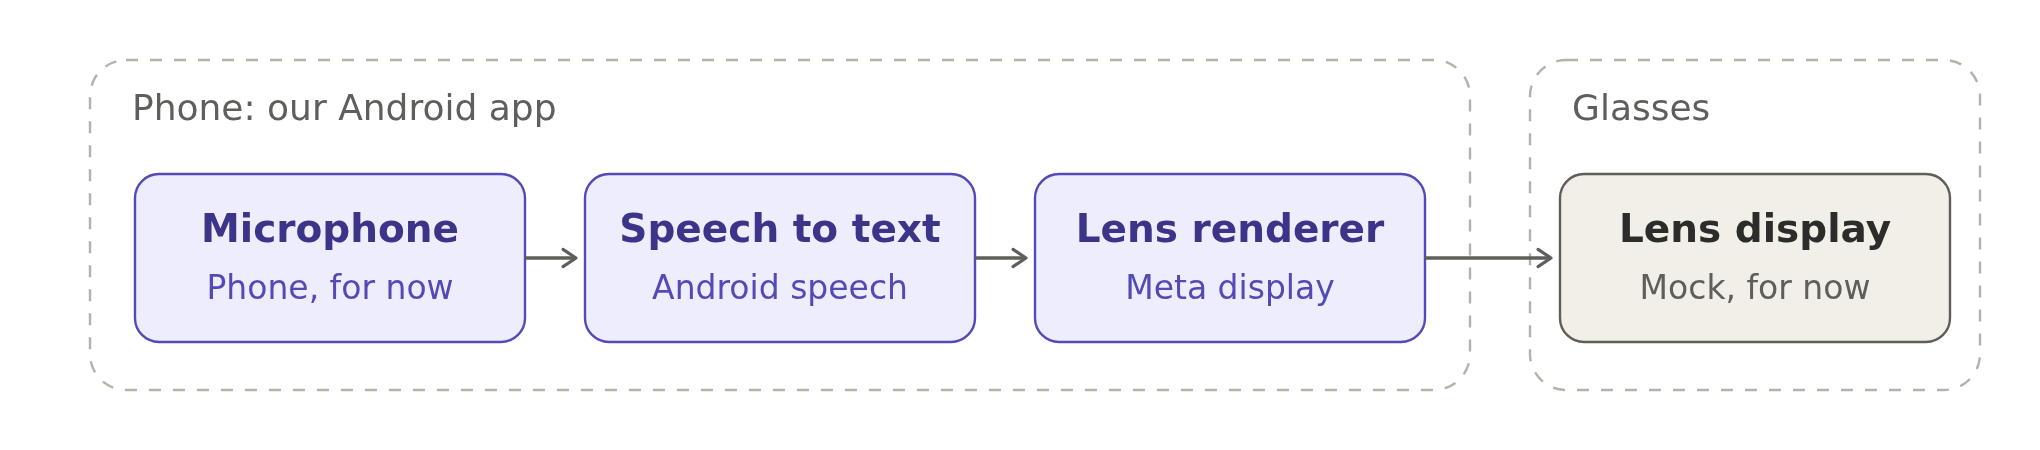
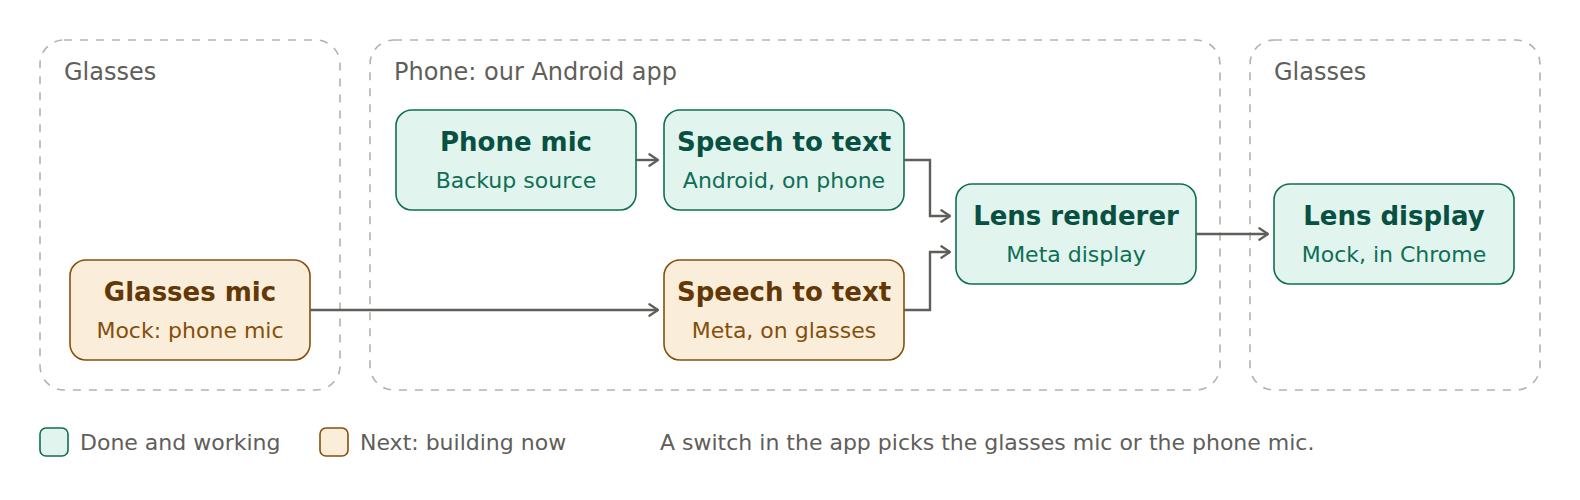
Update architecture docs: version 1 progress and version 2 sign clips
- Version 1 diagram now shows what is done (phone mic, Android speech
  to text, lens renderer, mock lens in Chrome) and what is next (glasses
  mic and Meta speech to text, with the phone mic kept as a backup)
- Add version 2 diagram: a clip matcher picks one of 5-10 pre-recorded
  Finnish Sign Language clips by trigger phrase and the lens plays it;
  with no match the lens shows the caption text
- Note Meta's video limits (MP4, max 400 px per side and 70,000 px,
  https only, one video at a time)
- Rewrite "Out of scope": live speech-to-sign translation stays out;
  signing to voice (gloves) is a separate plan

diff --git a/docs/architecture.md b/docs/architecture.md
@@ -8,36 +8,91 @@ Smart glasses for deaf and hard-of-hearing people. The wearer keeps looking at t
 
 Each diagram is shown as an image (works in Android Studio and on GitHub). The editable source is in `docs/images/*.svg`; a Mermaid version follows each image for GitHub.
 
-## Version 1: listen and show
+## Version 1: listen and show (now and next)
 
-The first version does one thing: someone speaks near the phone and the words appear in the glasses lens. Everything runs inside the Android app.
+Someone speaks and the words appear in the glasses lens. Everything runs inside the Android app. Green parts work today; amber is the step we are building now.
 
-![Version 1: phone microphone, speech to text, lens renderer, lens display](images/architecture-v1.png)
+![Now and next: phone mic and glasses mic both feed speech to text, then the lens renderer and the mock lens](images/architecture-v1.png)
 
 <details>
 <summary>Mermaid source</summary>
 
 ```mermaid
 flowchart LR
+  subgraph GlassesIn["Glasses"]
+    gmic["Glasses mic<br/><small>mock: phone mic</small>"]
+  end
   subgraph Phone["Phone: our Android app"]
-    mic["Microphone<br/><small>phone, for now</small>"]
-    stt["Speech to text<br/><small>Android speech recognition</small>"]
-    render["Lens renderer<br/><small>Meta display module</small>"]
+    pmic["Phone mic<br/><small>backup source</small>"]
+    pstt["Speech to text<br/><small>Android, on phone</small>"]
+    gstt["Speech to text<br/><small>Meta, on glasses</small>"]
+    render["Lens renderer<br/><small>Meta display</small>"]
   end
-  subgraph Glasses["Glasses"]
-    lens["Lens display<br/><small>mock glasses, for now</small>"]
+  subgraph GlassesOut["Glasses"]
+    lens["Lens display<br/><small>mock, in Chrome</small>"]
   end
-  mic --> stt --> render --> lens
+  pmic --> pstt --> render
+  gmic --> gstt --> render
+  render --> lens
+  classDef done fill:#E1F5EE,stroke:#0F6E56,color:#085041
+  classDef next fill:#FAEEDA,stroke:#854F0B,color:#633806
+  class pmic,pstt,render,lens done
+  class gmic,gstt next
 ```
 
 </details>
 
-- **Microphone:** the phone's own microphone until we have the glasses again. Later the glasses' microphone replaces it.
-- **Speech to text:** Android's built-in speech recognition turns speech into text as the person talks.
-- **Lens renderer:** Meta's Device Access Toolkit display module (`mwdat-display`) draws the latest lines of text in the lens.
-- **Lens display:** Meta's mock glasses (`mwdat-mockdevice`) act like a Ray-Ban Display, and their lens can be viewed in Chrome. Later the real Ray-Ban Display replaces them.
+**Done and working**
+- **Phone mic and speech to text:** the phone's microphone and Android's built-in speech recognition turn speech into text as the person talks. Stays in the app as the backup.
+- **Lens renderer:** Meta's display module (`mwdat-display`) draws the latest lines of text in the lens.
+- **Lens display:** Meta's mock glasses (`mwdat-mockdevice`) act like a Ray-Ban Display, and their lens can be viewed in Chrome.
 
-Done means: you speak near the phone and the words appear in the mock lens within about a second.
+**Next: building now**
+- **Glasses mic and speech to text on the glasses:** Meta's speech module (`mwdat-speech`, experimental) recognises speech on the glasses and sends the text to the app, which draws it in the lens. While the glasses are back with Meta, the mock glasses listen through the phone's microphone, but the text reaches the app along the same path the real glasses will use.
+- **Switch:** a button in the app picks the glasses mic or the phone mic. Only one listens at a time.
+
+Done means: you speak and the words appear in the mock lens within about a second, coming through the glasses speech path.
+
+## Version 2: sign clips (after version 1 works)
+
+Some deaf people find sign language easier than reading. For a small set of important messages the lens plays a short sign language clip instead of the caption text. Grey parts come from version 1; purple parts are new.
+
+![Version 2: speech to text, clip matcher, lens renderer plays a sign clip or shows text](images/architecture-v2.png)
+
+<details>
+<summary>Mermaid source</summary>
+
+```mermaid
+flowchart LR
+  subgraph GlassesIn["Glasses"]
+    mic["Glasses mic<br/><small>phone mic backup</small>"]
+  end
+  subgraph Phone["Phone: our Android app"]
+    stt["Speech to text<br/><small>from version 1</small>"]
+    match["Clip matcher<br/><small>trigger phrases</small>"]
+    render["Lens renderer<br/><small>clip, or text</small>"]
+  end
+  subgraph GlassesOut["Glasses"]
+    lens["Lens display<br/><small>mock, in Chrome</small>"]
+  end
+  subgraph Online["Online"]
+    clips["Sign clips<br/><small>5-10 MP4s, https</small>"]
+  end
+  mic --> stt --> match --> render --> lens
+  clips --> lens
+  classDef v1 fill:#F1EFE8,stroke:#5F5E5A,color:#2C2C2A
+  classDef v2 fill:#EEEDFE,stroke:#534AB7,color:#3C3489
+  class mic,stt,lens v1
+  class match,render,clips v2
+```
+
+</details>
+
+- **Clip matcher:** checks each finished sentence for the trigger phrases of each clip, for example "fire alarm" or "evacuate" for the danger clip, "platform" or "track" for the platform-changed clip. Simple keyword matching; no model training. Gemini can take over later if announcements are worded in too many ways.
+- **Lens renderer:** plays the matching clip in the glasses' full-screen video player, then goes back to captions. With no match it shows the caption text as in version 1.
+- **Sign clips:** 5–10 short Finnish Sign Language videos recorded by a signer, hosted on an https address (for example GitHub Pages). Meta's limits: MP4 only, at most 400 pixels per side and 70,000 pixels in total (about 260 × 260), one video at a time. The glasses fetch the clip themselves.
+
+Check first: does video play in the mock lens in Chrome?
 
 ## Full system
 
@@ -104,4 +159,7 @@ flowchart LR
 
 ## Out of scope
 
-Speech to sign language, full sign language interpretation and integration with meeting apps. Captions for Google Meet, Teams, Zoom and similar calls are part of the long-term goal but are not built for the hackathon. Signing to voice (Rokoko gloves and ElevenLabs) is a stretch goal and not part of these diagrams yet.
+- **Live translation of any speech into sign language.** Sign languages have their own grammar, facial expressions and movement, so this cannot be done word by word, and no reliable system exists yet. Version 2 covers only a small set of important messages with 5–10 pre-recorded sign clips.
+- **Full sign language interpretation.**
+- **Meeting apps.** Captions for Google Meet, Teams, Zoom and similar calls are part of the long-term goal but are not built for the hackathon.
+- **Signing to voice** (Rokoko gloves and ElevenLabs) is a separate plan and not part of these diagrams.
